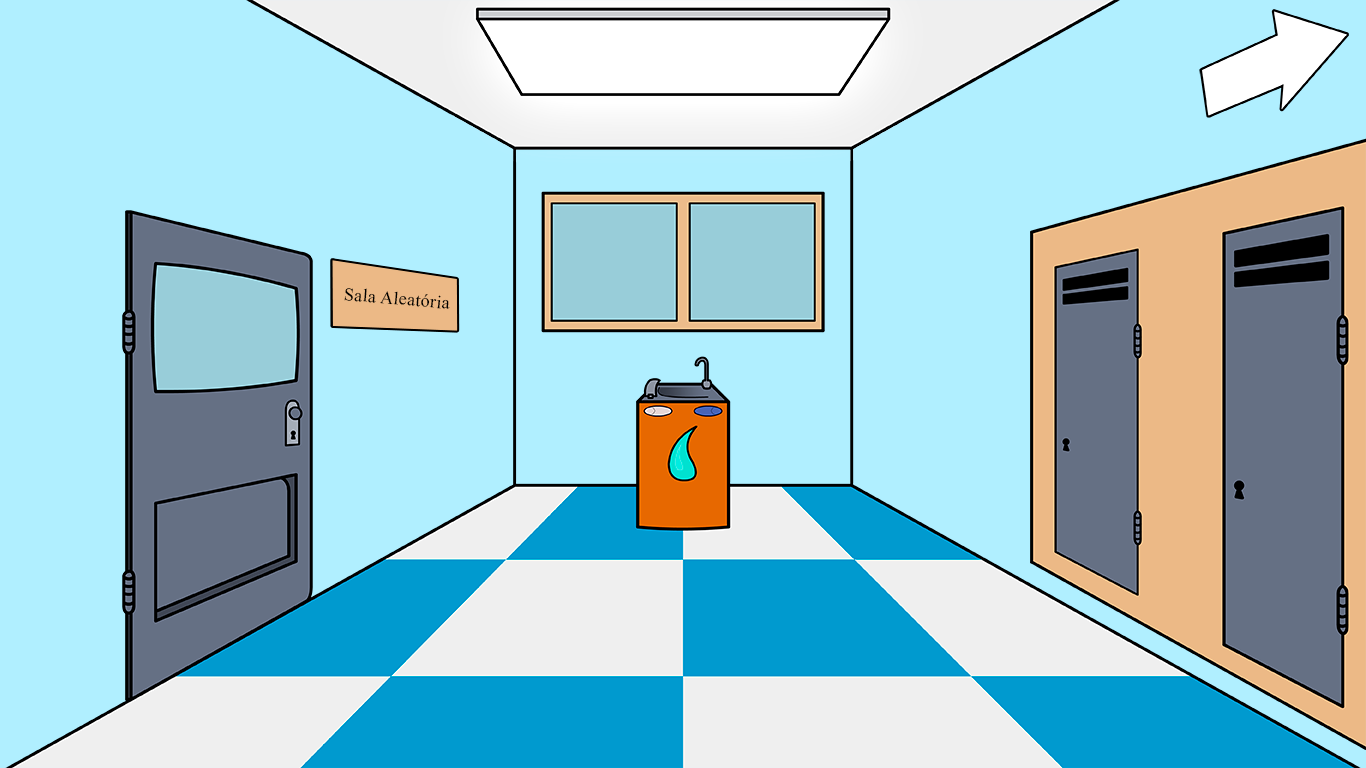
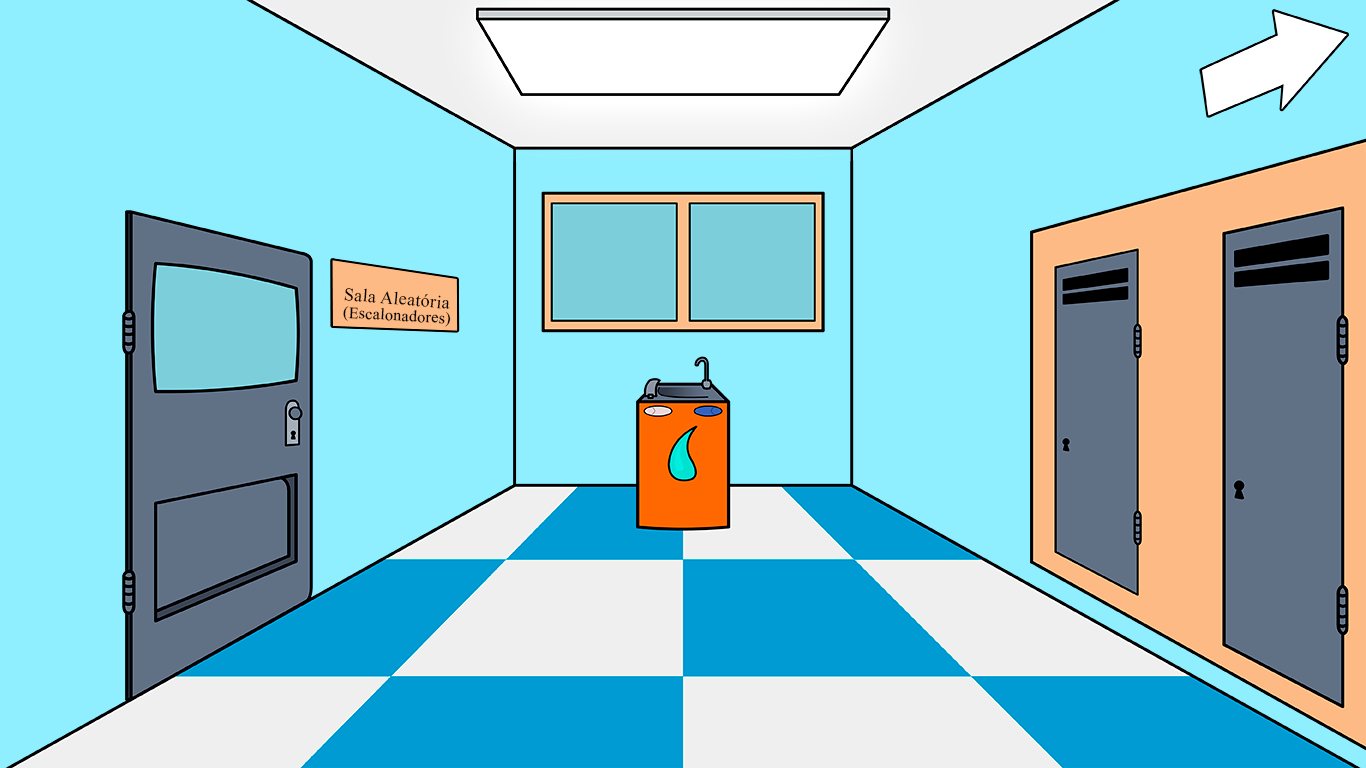
lottery scheduler add

diff --git a/views/LotteryClassroom.js b/views/LotteryClassroom.js
@@ -1,6 +1,6 @@
 function loadAPI() {
 	let gameapi = axios.create({
-			baseURL: 'http://localhost:8081/api/rest/game',
+		baseURL: 'http://localhost:8082/api/rest/game',
 		//baseURL: 'http://localhost:8080/api/rest/game',
 		headers: {
 			'Access-Control-Allow-Origin': '*'
@@ -34,19 +34,32 @@ function loadAPI() {
 
 			$('#textH1').text('Escalonador ')
 			$('#textH3').text(response)
-		//#textTime').text('Tempo de Execucao: 12ms')
-			$('#textContent').text('Escalonador por Loteria: A ideia por tras deste algoritmo e simples: Os processos recebem numeros para representa-los como em uma loteria, e assim eh sorteado um numero aleatoriamente e o processo que estiver com ele eh habilitado para utilizar a cpu'
+			// $('#textTime').text('Ordem: [ 1 2 3 4 ], Tempo de Execucao: 12ms')
+			$('#textContent').text(
+				'Escalonador por Loteria: A ideia por trás deste algoritmo é simples: Os processos recebem números para representa-los como em uma loteria, e assim é sorteado um número aleatoriamente e o processo que estiver com ele é habilitado para utilizar a cpu.'
 			)
 		})
 
+		function getRandom(min, max) {
+			return Math.floor(Math.random() * (max - min + 1)) + min
+		}
+		// getRandom(0, 4)
+		// let array = []
+		// for (let i = 0; i < 4; i++) {
+		// 	array.push(getRandom(0, 4))
+		// }
+
+		// console.log(array)
+
 		switch (response) {
 			case 'por Loteria':
-				function animationPriority() {
+				function animationLottery(lotteryNumber) {
+					console.log(lotteryNumber)
 					if (response === 'por Loteria') {
-						$('#priorityBox1').text('2')
-						$('#priorityBox2').text('1')
+						$('#priorityBox1').text('1')
+						$('#priorityBox2').text('2')
 						$('#priorityBox3').text('3')
-						$('#priorityBox4').text('1')
+						$('#priorityBox4').text('4')
 					}
 
 					let $box = $('#box'),
@@ -70,25 +83,105 @@ function loadAPI() {
 					tlText = new TimelineLite()
 					tlText.from($textBox, 2, { x: '-250', autoAlpha: 0 }, Power4.easeInOut)
 
+					if (lotteryNumber === 0) {
+						$('#textTime').text('Ordem: [ 1 2 3 4 ], Tempo de Execucao: 12ms')
+						tl.to($halfBox, 0, { x: '150', autoAlpha: 0 })
+							.from([$title, $subtitle, $textTime], 0.7, {
+								x: '150',
+								y: '-40',
+								autoAlpha: 0,
+								ease: Power4.easeInOut
+							})
+							.from($box, 0.5, { x: '150', autoAlpha: 0, ease: Power4.easeInOut })
+							.from($box2, 0.5, { x: '150', autoAlpha: 0, ease: Power4.easeInOut })
+							.from($box3, 0.5, { x: '150', autoAlpha: 0, ease: Power4.easeInOut })
+							.from($box4, 0.5, { x: '150', autoAlpha: 0, ease: Power4.easeInOut })
+							.to($box, 0.5, { x: '-332', ease: Power4.easeInOut, autoAlpha: 0 })
+							.to($box2, 2, { x: '-332', ease: Power4.easeInOut, autoAlpha: 0 })
+							.to($box3, 0.5, { x: '-332', ease: Power4.easeInOut, autoAlpha: 0 })
+							.to($box4, 2.2, { x: '-332', ease: Power4.easeInOut, autoAlpha: 0 })
+							.from($repeatAnimation, 0.5, { autoAlpha: 0, ease: Power4.easeInOut })
+					}
+					if (lotteryNumber === 1) {
+						$('#textTime').text('Ordem: [ 2 1 4 3 ], Tempo de Execucao: 12ms')
+						tl.to($halfBox, 0, { x: '150', autoAlpha: 0 })
+							.from([$title, $subtitle, $textTime], 0.7, {
+								x: '150',
+								y: '-40',
+								autoAlpha: 0,
+								ease: Power4.easeInOut
+							})
+							.from($box, 0.5, { x: '150', autoAlpha: 0, ease: Power4.easeInOut })
+							.from($box2, 0.5, { x: '150', autoAlpha: 0, ease: Power4.easeInOut })
+							.from($box3, 0.5, { x: '150', autoAlpha: 0, ease: Power4.easeInOut })
+							.from($box4, 0.5, { x: '150', autoAlpha: 0, ease: Power4.easeInOut })
+							.to($box2, 2, { x: '-332', ease: Power4.easeInOut, autoAlpha: 0 })
+							.to($box, 0.5, { x: '-332', ease: Power4.easeInOut, autoAlpha: 0 })
+							.to($box4, 2.2, { x: '-332', ease: Power4.easeInOut, autoAlpha: 0 })
+							.to($box3, 0.5, { x: '-332', ease: Power4.easeInOut, autoAlpha: 0 })
+							.from($repeatAnimation, 0.5, { autoAlpha: 0, ease: Power4.easeInOut })
+					}
+					if (lotteryNumber === 2) {
+						$('#textTime').text('Ordem: [ 3 4 2 1 ], Tempo de Execucao: 12ms')
+						tl.to($halfBox, 0, { x: '150', autoAlpha: 0 })
+							.from([$title, $subtitle, $textTime], 0.7, {
+								x: '150',
+								y: '-40',
+								autoAlpha: 0,
+								ease: Power4.easeInOut
+							})
+							.from($box, 0.5, { x: '150', autoAlpha: 0, ease: Power4.easeInOut })
+							.from($box2, 0.5, { x: '150', autoAlpha: 0, ease: Power4.easeInOut })
+							.from($box3, 0.5, { x: '150', autoAlpha: 0, ease: Power4.easeInOut })
+							.from($box4, 0.5, { x: '150', autoAlpha: 0, ease: Power4.easeInOut })
+							.to($box3, 0.5, { x: '-332', ease: Power4.easeInOut, autoAlpha: 0 })
+							.to($box4, 2.2, { x: '-332', ease: Power4.easeInOut, autoAlpha: 0 })
+							.to($box2, 2, { x: '-332', ease: Power4.easeInOut, autoAlpha: 0 })
+							.to($box, 0.5, { x: '-332', ease: Power4.easeInOut, autoAlpha: 0 })
+							.from($repeatAnimation, 0.5, { autoAlpha: 0, ease: Power4.easeInOut })
+					}
+					if (lotteryNumber === 3) {
+						$('#textTime').text('Ordem: [ 4 3 1 2 ], Tempo de Execucao: 12ms')
+						tl.to($halfBox, 0, { x: '150', autoAlpha: 0 })
+							.from([$title, $subtitle, $textTime], 0.7, {
+								x: '150',
+								y: '-40',
+								autoAlpha: 0,
+								ease: Power4.easeInOut
+							})
+							.from($box, 0.5, { x: '150', autoAlpha: 0, ease: Power4.easeInOut })
+							.from($box2, 0.5, { x: '150', autoAlpha: 0, ease: Power4.easeInOut })
+							.from($box3, 0.5, { x: '150', autoAlpha: 0, ease: Power4.easeInOut })
+							.from($box4, 0.5, { x: '150', autoAlpha: 0, ease: Power4.easeInOut })
+							.to($box4, 2.2, { x: '-332', ease: Power4.easeInOut, autoAlpha: 0 })
+							.to($box3, 0.5, { x: '-332', ease: Power4.easeInOut, autoAlpha: 0 })
+							.to($box, 0.5, { x: '-332', ease: Power4.easeInOut, autoAlpha: 0 })
+							.to($box2, 2, { x: '-332', ease: Power4.easeInOut, autoAlpha: 0 })
+							.from($repeatAnimation, 0.5, { autoAlpha: 0, ease: Power4.easeInOut })
+					}
+					if (lotteryNumber === 4) {
+						$('#textTime').text('Ordem: [ 4 3 2 1 ], Tempo de Execucao: 12ms')
+						tl.to($halfBox, 0, { x: '150', autoAlpha: 0 })
+							.from([$title, $subtitle, $textTime], 0.7, {
+								x: '150',
+								y: '-40',
+								autoAlpha: 0,
+								ease: Power4.easeInOut
+							})
+							.from($box, 0.5, { x: '150', autoAlpha: 0, ease: Power4.easeInOut })
+							.from($box2, 0.5, { x: '150', autoAlpha: 0, ease: Power4.easeInOut })
+							.from($box3, 0.5, { x: '150', autoAlpha: 0, ease: Power4.easeInOut })
+							.from($box4, 0.5, { x: '150', autoAlpha: 0, ease: Power4.easeInOut })
+							.to($box4, 2.2, { x: '-332', ease: Power4.easeInOut, autoAlpha: 0 })
+							.to($box3, 0.5, { x: '-332', ease: Power4.easeInOut, autoAlpha: 0 })
+							.to($box2, 2, { x: '-332', ease: Power4.easeInOut, autoAlpha: 0 })
+							.to($box, 0.5, { x: '-332', ease: Power4.easeInOut, autoAlpha: 0 })
+							.from($repeatAnimation, 0.5, { autoAlpha: 0, ease: Power4.easeInOut })
+					}
+
 					// animation timeline
-					tl.to($halfBox, 0, { x: '150', autoAlpha: 0 })
-						.from([$title, $subtitle, $textTime], 0.7, {
-							x: '150',
-							y: '-40',
-							autoAlpha: 0,
-							ease: Power4.easeInOut
-						})
-						.from($box, 0.5, { x: '150', autoAlpha: 0, ease: Power4.easeInOut })
-						.from($box2, 0.5, { x: '150', autoAlpha: 0, ease: Power4.easeInOut })
-						.from($box3, 0.5, { x: '150', autoAlpha: 0, ease: Power4.easeInOut })
-						.from($box4, 0.5, { x: '150', autoAlpha: 0, ease: Power4.easeInOut })
-						.to($box2, 2, { x: '-332', ease: Power4.easeInOut, autoAlpha: 0 })
-						.to($box4, 2.2, { x: '-332', ease: Power4.easeInOut, autoAlpha: 0 })
-						.to($box, 0.5, { x: '-332', ease: Power4.easeInOut, autoAlpha: 0 })
-						.to($box3, 0.5, { x: '-332', ease: Power4.easeInOut, autoAlpha: 0 })
-						.from($repeatAnimation, 0.5, { autoAlpha: 0, ease: Power4.easeInOut })
 				}
-				animationPriority()
+				animationLottery(getRandom(0, 4))
 				break
 			default:
 				break
@@ -110,7 +203,8 @@ function loadAPI() {
 		// animationSjf()
 		let hint = document.getElementById('hintAudio')
 		hint.play()
-		tl.restart()
+		window.location.reload()
+		// tl.restart()
 	})
 }
 

diff --git a/public/firstFit.html b/public/firstFit.html
@@ -136,6 +136,6 @@
 		<script src="https://ajax.googleapis.com/ajax/libs/jquery/3.3.1/jquery.min.js"></script>
 		<script src="https://cdnjs.cloudflare.com/ajax/libs/gsap/2.1.2/TweenMax.min.js"></script>
 		<script src="https://unpkg.com/axios/dist/axios.min.js"></script>
-		<script src="../views/firstFitClassroom.js"></script>
+		<script src="../views/FirstFitClassroom.js"></script>
 	</body>
 </html>

diff --git a/public/worstFit.html b/public/worstFit.html
@@ -140,6 +140,6 @@
 		<script src="https://ajax.googleapis.com/ajax/libs/jquery/3.3.1/jquery.min.js"></script>
 		<script src="https://cdnjs.cloudflare.com/ajax/libs/gsap/2.1.2/TweenMax.min.js"></script>
 		<script src="https://unpkg.com/axios/dist/axios.min.js"></script>
-		<script src="../views/worstFitClassroom.js"></script>
+		<script src="../views/WorstFitClassroom.js"></script>
 	</body>
 </html>

diff --git a/public/bestFit.html b/public/bestFit.html
@@ -140,6 +140,6 @@
 		<script src="https://ajax.googleapis.com/ajax/libs/jquery/3.3.1/jquery.min.js"></script>
 		<script src="https://cdnjs.cloudflare.com/ajax/libs/gsap/2.1.2/TweenMax.min.js"></script>
 		<script src="https://unpkg.com/axios/dist/axios.min.js"></script>
-		<script src="../views/bestFitClassroom.js"></script>
+		<script src="../views/BestFitClassroom.js"></script>
 	</body>
 </html>

diff --git a/public/nextFit.html b/public/nextFit.html
@@ -141,6 +141,6 @@
 		<script src="https://ajax.googleapis.com/ajax/libs/jquery/3.3.1/jquery.min.js"></script>
 		<script src="https://cdnjs.cloudflare.com/ajax/libs/gsap/2.1.2/TweenMax.min.js"></script>
 		<script src="https://unpkg.com/axios/dist/axios.min.js"></script>
-		<script src="../views/nextFitClassroom.js"></script>
+		<script src="../views/NextFitClassroom.js"></script>
 	</body>
 </html>

diff --git a/public/hall.html b/public/hall.html
@@ -24,7 +24,12 @@
 			<source src="./assets/highschoolSound.mp3" type="audio/mp3" />
 		</audio>
 
-		<img src="./assets/hall.png" alt="" usemap="#image-map" />
+		<img
+			src="./assets/hall.png"
+			style="height: 100%; width: 100%; position: absolute;"
+			alt=""
+			usemap="#image-map"
+		/>
 		<map name="image-map">
 			<!-- <area
 				target=""

diff --git a/public/elevatorPanel.html b/public/elevatorPanel.html
@@ -76,9 +76,9 @@
 			/>
 			<area
 				target=""
-				alt="Andar interditado"
-				title="Andar interditado"
-				href=""
+				alt="Ir para hall do escalonador por loteria"
+				title="Ir para hall do escalonador por loteria"
+				href="hallLottery.html"
 				coords="789,431,34"
 				shape="circle"
 			/>

diff --git a/public/lottery.html b/public/lottery.html
@@ -46,7 +46,7 @@
 					</map> -->
 
 			<div class="row pt-5 offset-3">
-				<a href="http://localhost:8081/public/hallPriority.html">
+				<a href="http://localhost:8081/public/hallLottery.html">
 					<div class="col-3 pt-4 back-btn">
 						<h4 class="text-white">Voltar</h4>
 					</div>
